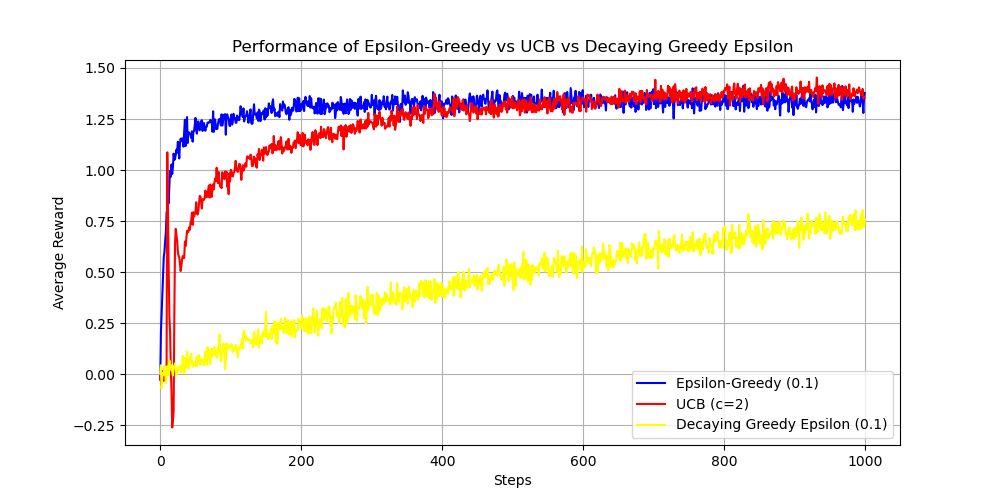
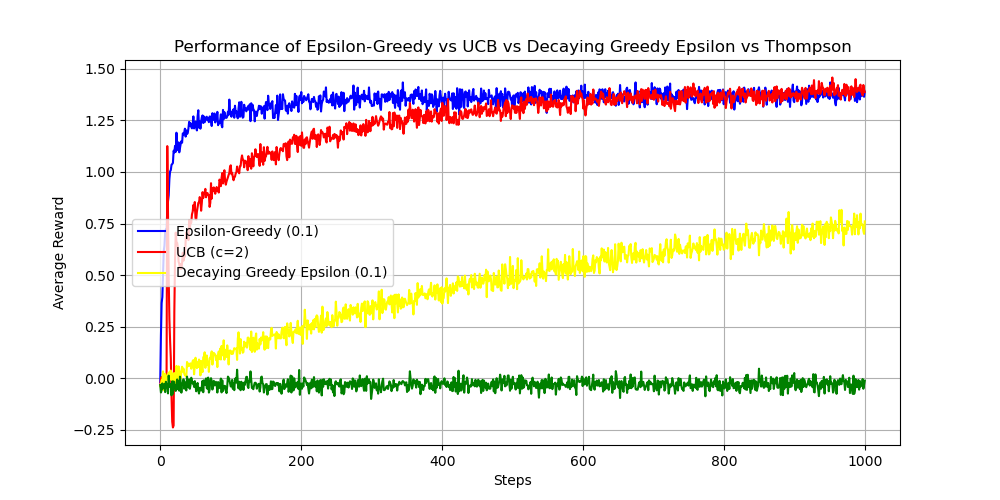
Added Thompson Sampling

Changed region(s): [[0.062, 0.06, 0.899, 0.87], [0.062, 0.72, 0.124, 0.78], [0.093, 0.24, 0.124, 0.27]]

diff --git a/Bandit_Algorithms/k_arm_bandit.py b/Bandit_Algorithms/k_arm_bandit.py
@@ -8,7 +8,7 @@ os.makedirs("Bandit_Algorithms/Results", exist_ok=True)
 '''
 This is a simple implementation of K-Armed Bandit Problem
 
-Upper-Confidence-Bound (UCB) vs Decaying Greedy Epsilon vs Epsilon-Greedy Selection
+Upper-Confidence-Bound (UCB) vs Decaying Greedy Epsilon vs Epsilon-Greedy Selection vs Thompson Selcetion Methods
 
 These are two types of action selection in RL
 
@@ -23,6 +23,8 @@ class Bandit:
         self.q_estimates = np.ones(k) 
         self.action_counts = np.zeros(k)
         self.q_star = np.random.normal(0, 1, self.k)
+        self.success_a = np.ones(k)
+        self.failure_a = np.ones(k)
         
     def reward_function(self, action):
         return np.random.normal(self.q_star[action], 1)  ## Gaussian Noise
@@ -44,6 +46,16 @@ class Bandit:
     def ucb_action_selection(self, step, c):
         return np.argmax(self.q_estimates + c * np.sqrt(np.log(step + 1)/(self.action_counts + 1)))
         
+    def thompson_action_selection(self):
+        sample_values = [np.random.beta(self.success_a, self.failure_a)]
+        return np.argmax(sample_values)
+    
+    def update_thompson_action_value(self, action, reward):
+        if reward > 0:
+            self.success_a[action] += 1
+        else:
+            self.failure_a[action] += 1
+        
     def update_action_value(self, action, reward, alpha=None):
         self.action_counts[action] += 1
         if alpha is None:  # Sample averaging
@@ -51,7 +63,6 @@ class Bandit:
         self.q_estimates[action] += alpha * (reward - self.q_estimates[action])
         
         
-
 num_runs = 2000
 num_steps = 1000
 k=10
@@ -66,21 +77,34 @@ def loop(method, epsilon=0.1, c=2):   ## Tune value of epsilon to see changes
             
             if method == "ucb":
                 action = bandit.ucb_action_selection(step, c)
+                reward = bandit.reward_function(action)
+                bandit.update_action_value(action, reward, alpha=0.1)
+                
             elif method == "decay_epsilon_greedy":  
                 action = bandit.decaying_epsilon_greedy_sel(epsilon, step)
+                reward = bandit.reward_function(action)
+                bandit.update_action_value(action, reward, alpha=0.1)
+                
             elif method == "epsilon_greedy":  
                 action = bandit.epsilon_greedy(epsilon)
+                reward = bandit.reward_function(action)
+                bandit.update_action_value(action, reward, alpha=0.1)
+                
+            elif method == "thompson":
+                action = bandit.thompson_action_selection()
+                reward = bandit.reward_function(action)
+                bandit.update_thompson_action_value(action, reward)
+                
             else:
                 raise  ValueError("Method not found")
-            reward = bandit.reward_function(action)
-            bandit.update_action_value(action, reward, alpha=0.1)
+            
             rewards[step] = reward
             
         avg_reward += rewards 
     
     return avg_reward / num_runs
 
-methods = ["epsilon_greedy", "ucb", "decay_epsilon_greedy"]
+methods = ["epsilon_greedy", "ucb", "decay_epsilon_greedy", "thompson"]
 results_dict = {}
 for method in methods:
     results_dict[method] = loop(method)
@@ -94,11 +118,13 @@ plt.figure(figsize=(10, 5))
 plt.plot(load_res["epsilon_greedy"], label="Epsilon-Greedy (0.1)", color="blue")
 plt.plot(load_res["ucb"], label="UCB (c=2)", color="red")
 plt.plot(load_res["decay_epsilon_greedy"], label="Decaying Greedy Epsilon (0.1)", color="yellow")
+plt.plot(load_res["thompson"], label="Thompson", color="green")
+
 
 
 plt.xlabel("Steps")
 plt.ylabel("Average Reward")
-plt.title("Performance of Epsilon-Greedy vs UCB vs Decaying Greedy Epsilon")
+plt.title("Performance of Epsilon-Greedy vs UCB vs Decaying Greedy Epsilon vs Thompson")
 plt.legend()
 plt.grid()
 plt.savefig("Bandit_Algorithms/Results/k_armed_bandit.png")
